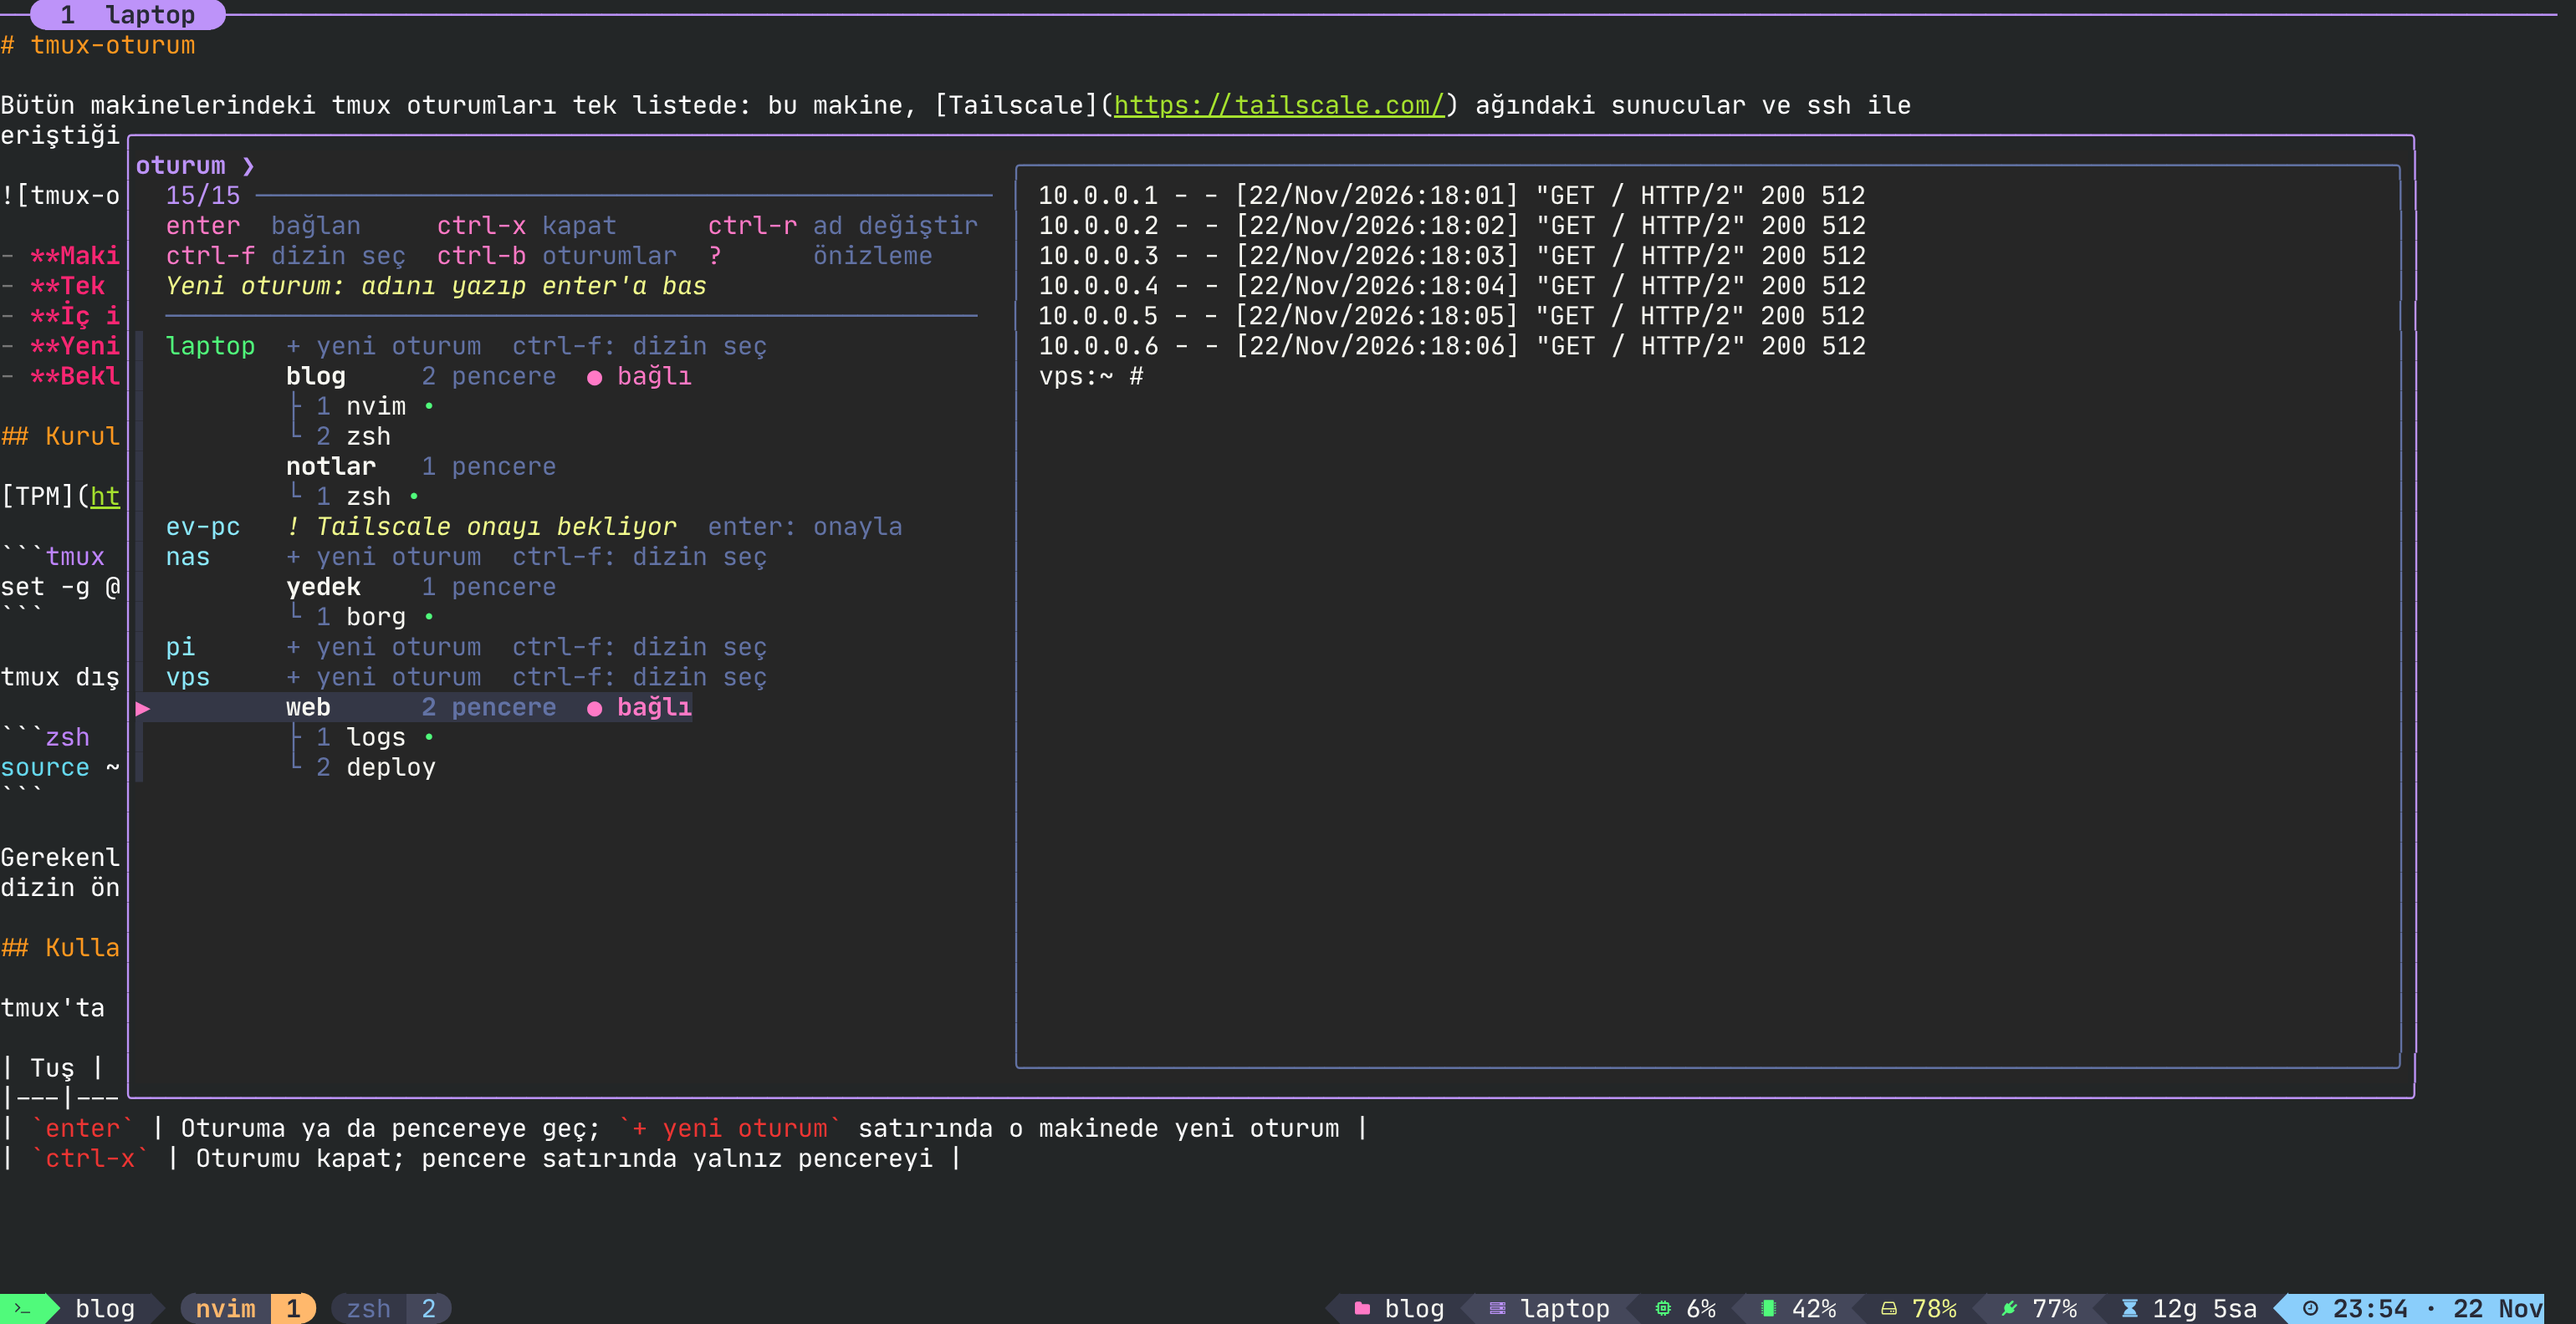
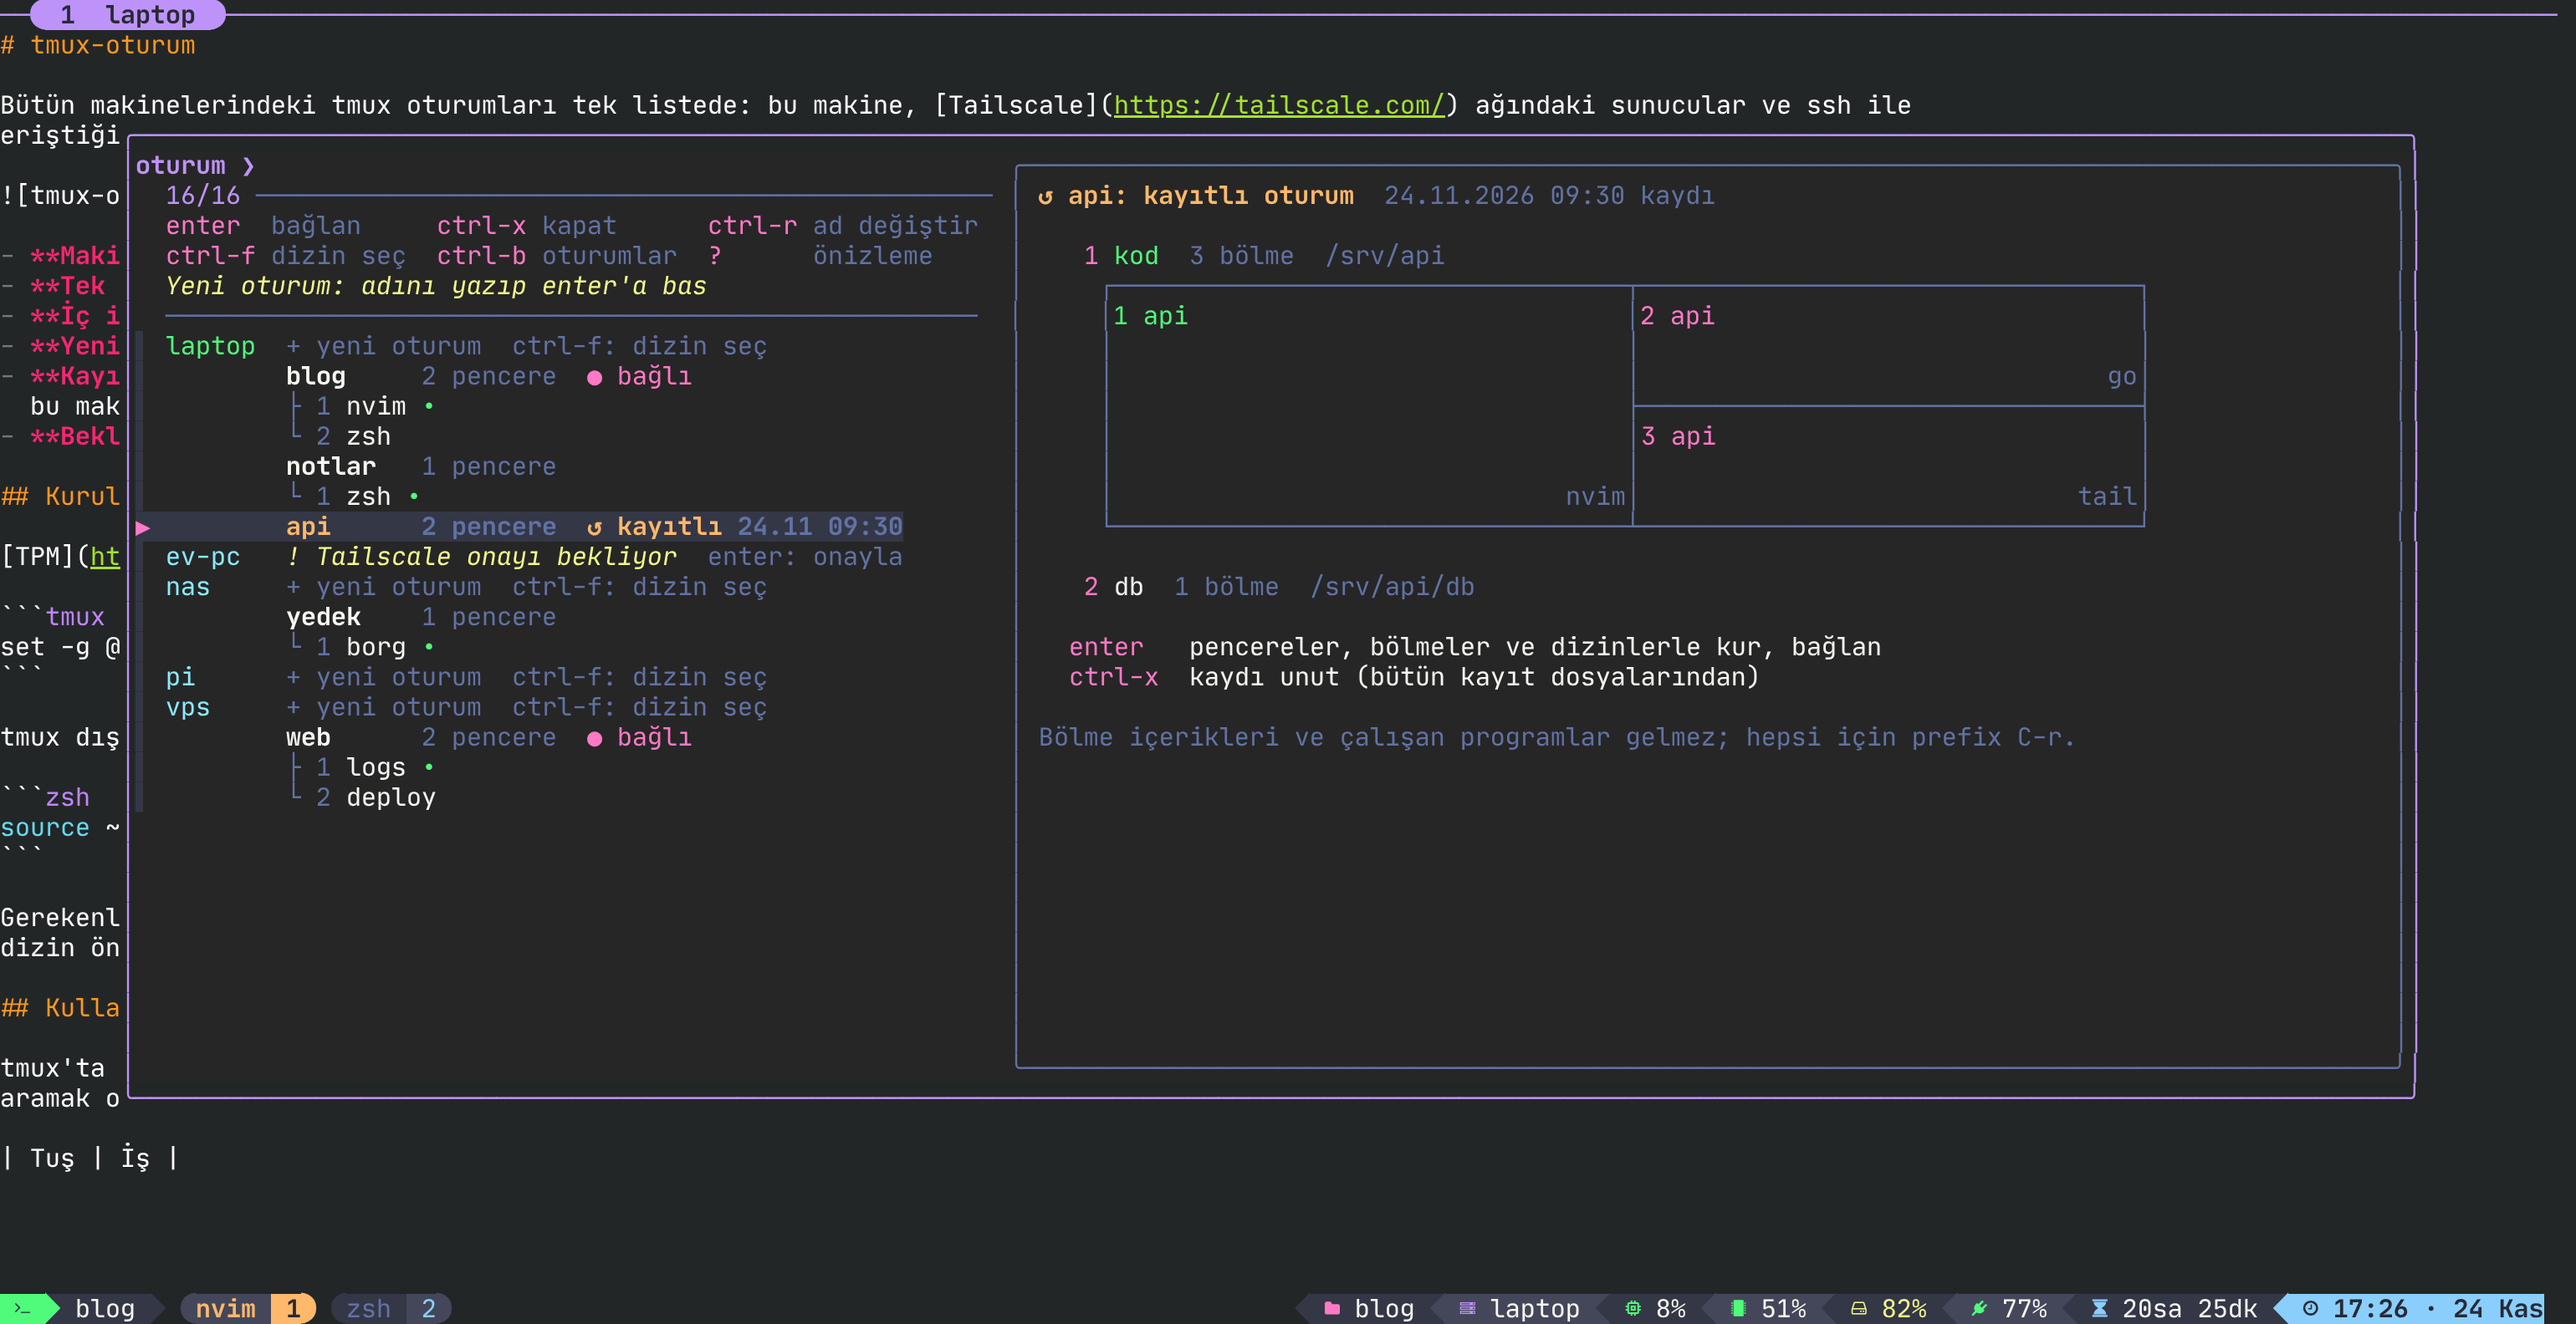
feat(ui): tmux-resurrect kayıtlı oturum desteği ekle
`tmux-resurrect` eklentisi tarafından kaydedilen ancak şu an açık olmayan
oturumların listede `↺ kayıtlı` etiketiyle gösterilmesini sağlayan özellik
eklendi.

- Kayıtlı oturumlar listede turuncu renkle gösterilir.
- `enter` ile kayıtlı oturumlar düzeniyle birlikte kurulur.
- `ctrl-x` ile kayıtlı oturumun kaydı listeden kaldırılır.
- Arama kısmında makine adı ile arama yapıldığında o makineye ait tüm
  satırların (oturumlar ve kayıtlı oturumlar dahil) filtrelenmesi sağlandı.
- Dokümantasyon ve test senaryoları yeni özelliklere göre güncellendi.

diff --git a/README.md b/README.md
@@ -9,6 +9,8 @@ eriştiğin öteki makineler. Birini seçip enter'a bas; oturum hangi makinede o
 - **Tek bakışta:** her makinenin oturumları, pencereleri ve hangisine bağlı olduğun; seçili oturumun ekranı yanda.
 - **İç içe tmux yok:** uzak oturuma geçince terminal doğrudan uzak tmux'a bağlanır; `prefix d` ile kaldığın yere dönersin.
 - **Yeni oturum her yerde:** makinenin `+ yeni oturum` satırı, ya da `ctrl-f` ile o makinede bir dizin seçip orada.
+- **Kayıtlı oturumlar:** [tmux-resurrect](https://github.com/tmux-plugins/tmux-resurrect) kaydında olup açık olmayan oturumlar
+  bu makinenin altında `↺ kayıtlı` satırı; enter yalnız o oturumu kurar, bütün sunucuyu değil.
 - **Beklemez:** makineler aynı anda sorulur, yanıt vermeyen listeyi tutmaz; `esc` hemen kapatır.
 
 ## Kurulum
@@ -30,19 +32,20 @@ dizin önerileri için `zoxide`. Uzak makinede yalnız tmux.
 
 ## Kullanım
 
-tmux'ta `prefix g`, zsh'ta `ctrl-g`. Listede olmayan bir ad yazıp enter'a basmak o adla yeni oturum açar.
+tmux'ta `prefix g`, zsh'ta `ctrl-g`. Listede olmayan bir ad yazıp enter'a basmak o adla yeni oturum açar. Makine adıyla
+aramak o makinenin bütün satırlarını bırakır; bulanık arama için sorgunun başına `'`.
 
 | Tuş | İş |
 |---|---|
-| `enter` | Oturuma ya da pencereye geç; `+ yeni oturum` satırında o makinede yeni oturum |
-| `ctrl-x` | Oturumu kapat; pencere satırında yalnız pencereyi |
+| `enter` | Oturuma ya da pencereye geç; `+ yeni oturum` satırında o makinede yeni oturum; `↺ kayıtlı` satırında oturumu kur ve geç |
+| `ctrl-x` | Oturumu kapat; pencere satırında yalnız pencereyi; `↺ kayıtlı` satırında kaydı unut |
 | `ctrl-r` | Oturumun ya da pencerenin adını değiştir |
 | `ctrl-f` | Satırın makinesinde dizin seç (ev dizini, zoxide geçmişi, `/opt`, `/srv`, …) ve orada yeni oturum aç |
 | `ctrl-b` | Dizinlerden oturum listesine dön |
 | `?` | Önizlemeyi aç, kapat |
 
 Aynı adla oturum varsa yenisi açılmaz, ona geçilir. Bir oturumdaki son kabuğu kapatınca (`ctrl-d`) tmux'tan düşmezsin, önceki
-oturuma geçersin.
+oturuma geçersin. Kayıtlı oturum pencereleri, bölmeleri, dizinleri ve düzeniyle kurulur; çalışan programlar gelmez.
 
 ## Ayarlar
 
